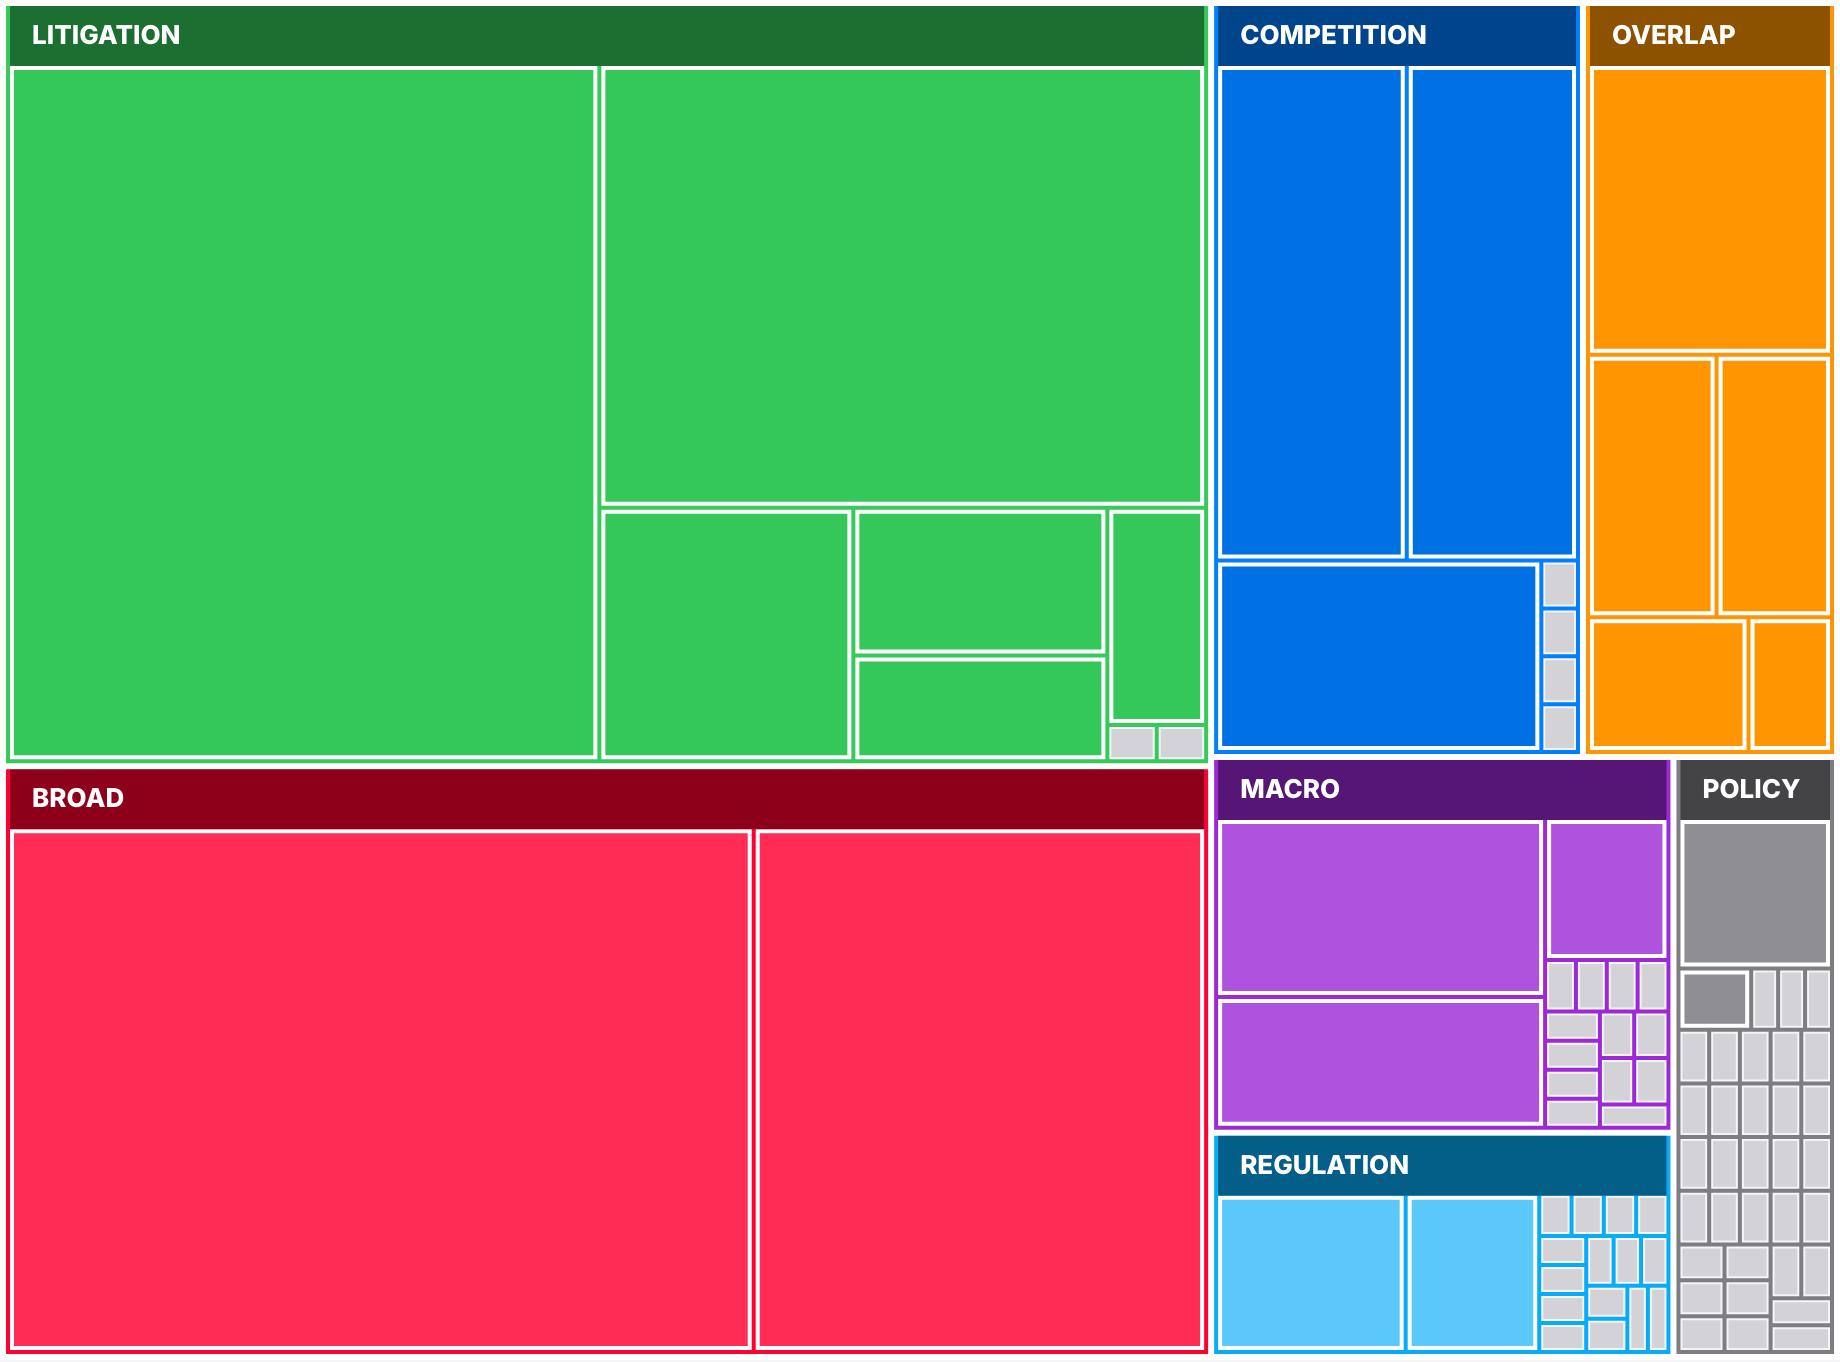
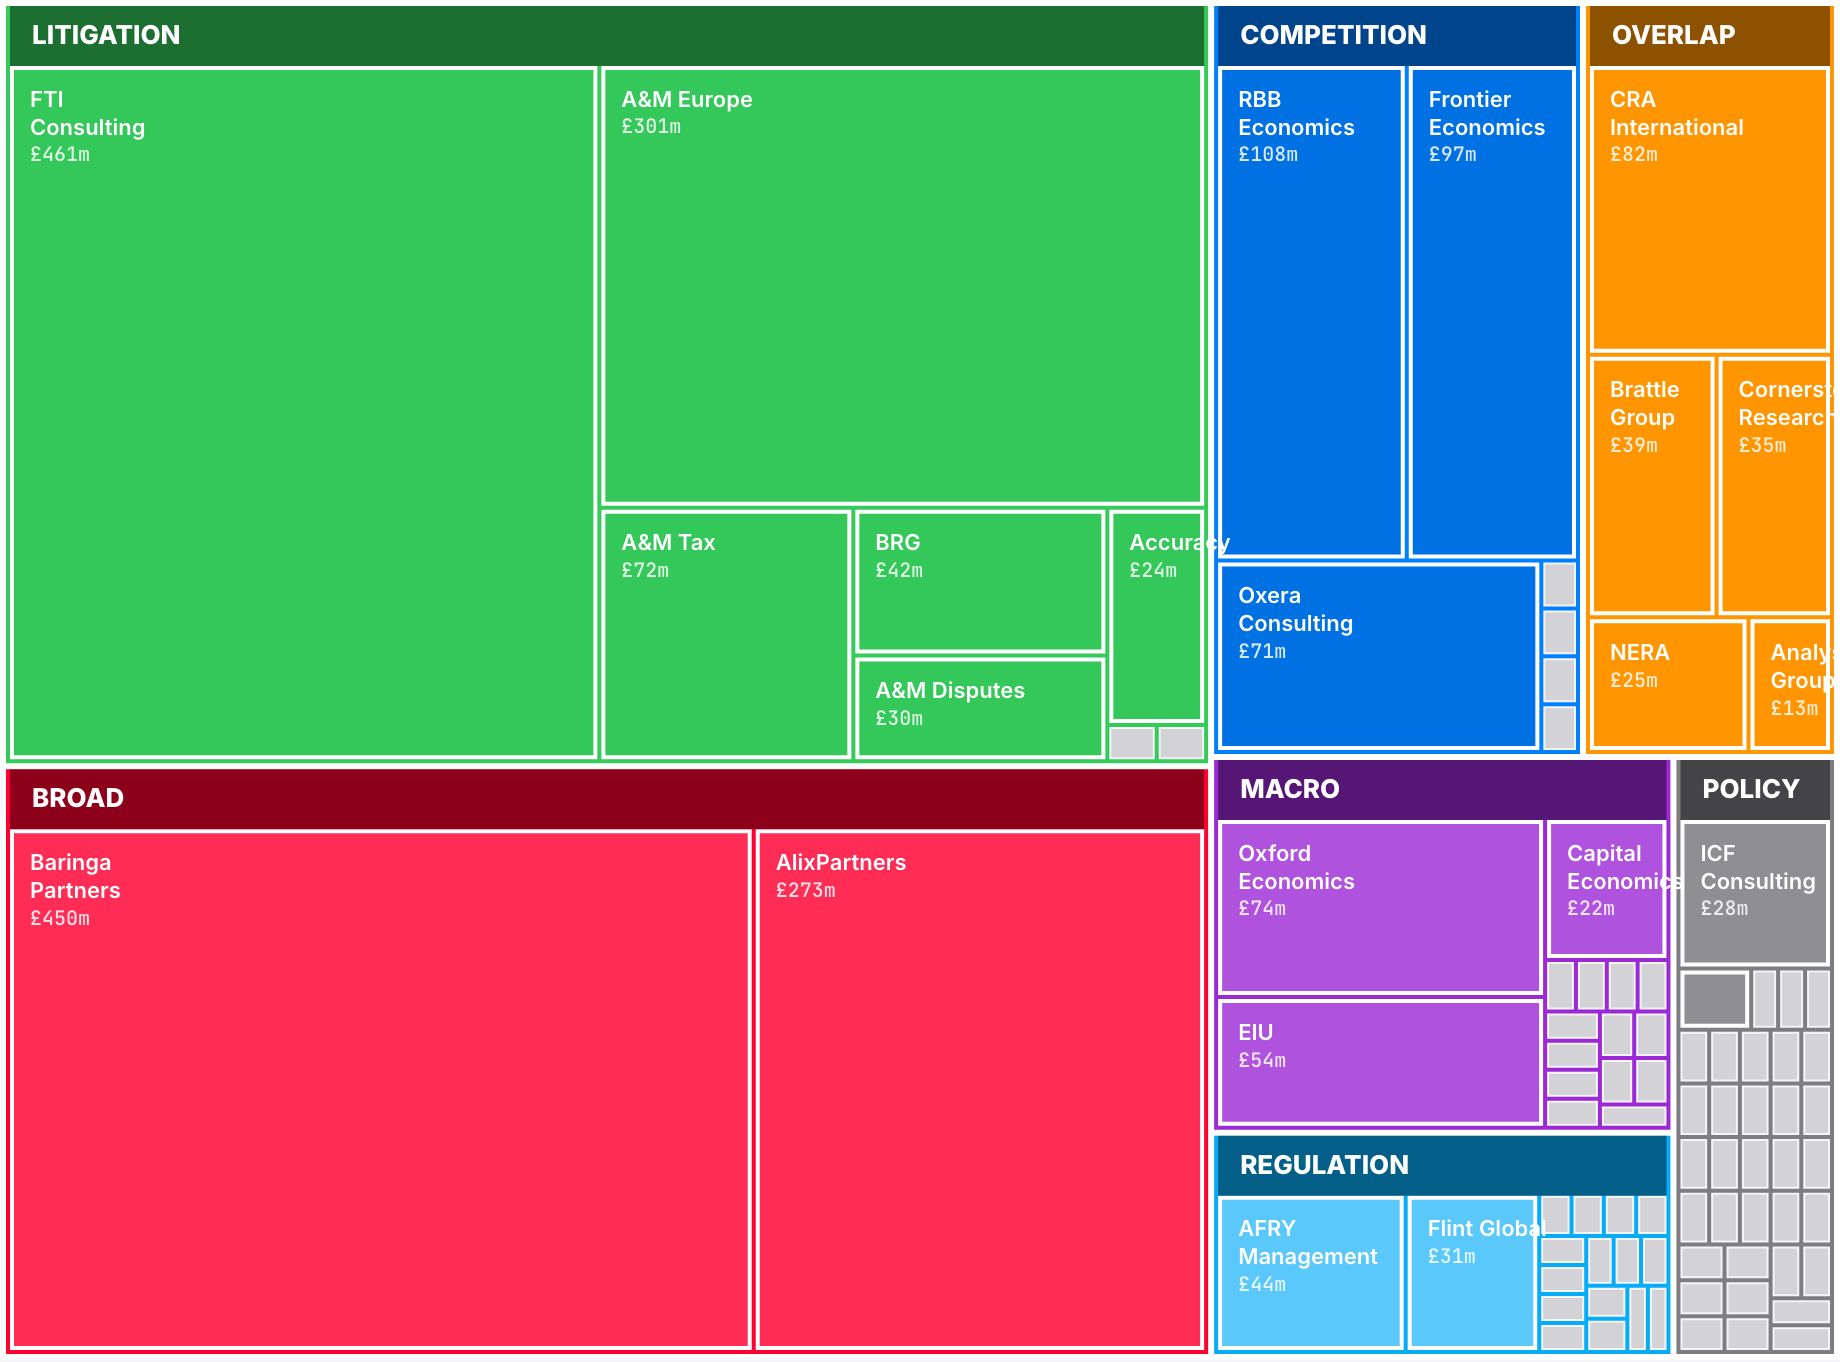
Mobile chart PNGs: keep labels, annotations, and markers
The original export script stripped all ECharts labels, markPoints,
markLines, graphic annotations, and the D3 chord-diagram text labels
on the assumption that annotations would be illegible at mobile
thumbnail size. In practice mobile readers want the same chart
narrative the desktop readers see — including the data labels, the
'CMA pipeline opens' markline, the d3-svg-annotation callouts, and
the chord ribbon labels.

Removed the strip step from STRIP_ECHARTS and STRIP_CHORD so the
export now captures each chart in its as-rendered state. Re-exported
all 19 charts; 15 differ from the previous label-stripped versions.

diff --git a/blog/consultancy-series/charts/_export-clean-pngs.py b/blog/consultancy-series/charts/_export-clean-pngs.py
@@ -44,40 +44,16 @@ STRIP_ECHARTS = """
   if (!el) return false;
   var inst = echarts.getInstanceByDom(el);
   if (!inst) return false;
-  var opt = inst.getOption();
-
-  function killLabels(node){
-    if (!node || typeof node !== 'object') return;
-    if (Array.isArray(node)) { node.forEach(killLabels); return; }
-    for (var k in node){
-      if (k === 'label' || k === 'endLabel' || k === 'startLabel') {
-        if (node[k] && typeof node[k] === 'object') node[k].show = false;
-      } else if (k === 'markPoint' || k === 'markLine' || k === 'markArea') {
-        if (node[k]) node[k] = { data: [] };
-      } else if (k === 'labelLayout' || k === 'labelLine') {
-        // leave layout alone
-      } else if (typeof node[k] === 'object') {
-        killLabels(node[k]);
-      }
-    }
-  }
-
-  if (opt.series) killLabels(opt.series);
-  // Clear any standalone graphic annotations
-  if (opt.graphic) opt.graphic = [];
-  inst.setOption(opt, true);
+  // Keep labels, markPoints, markLines, and graphic annotations as-is —
+  // mobile screenshots should match the desktop reading experience.
+  // Just trigger a resize to make sure the chart has finished layout.
   inst.resize();
   return true;
 })('__ID__');
 """
 
 STRIP_CHORD = """
-(function(){
-  document.querySelectorAll('.chord-label, .chord text').forEach(function(n){
-    n.style.display = 'none';
-  });
-  return true;
-})();
+(function(){ return true; })();
 """
 
 
